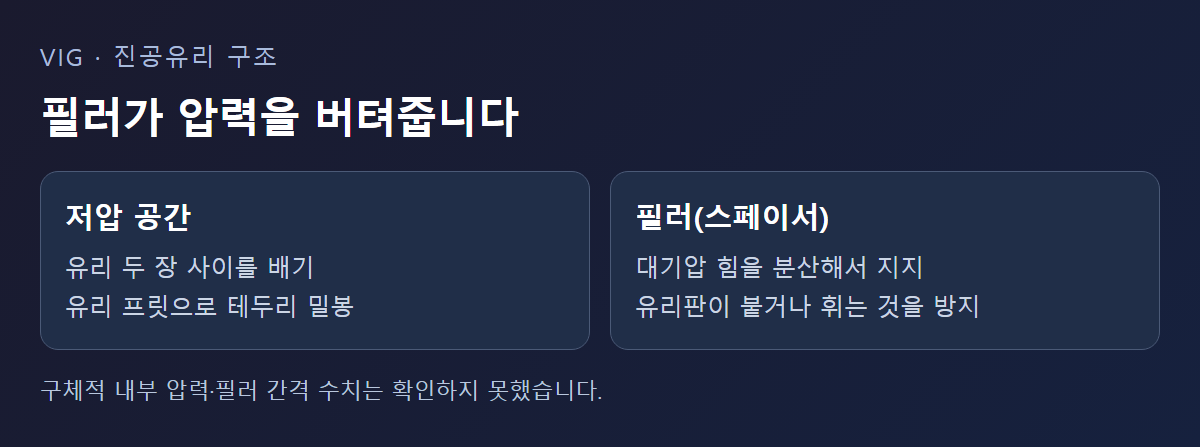
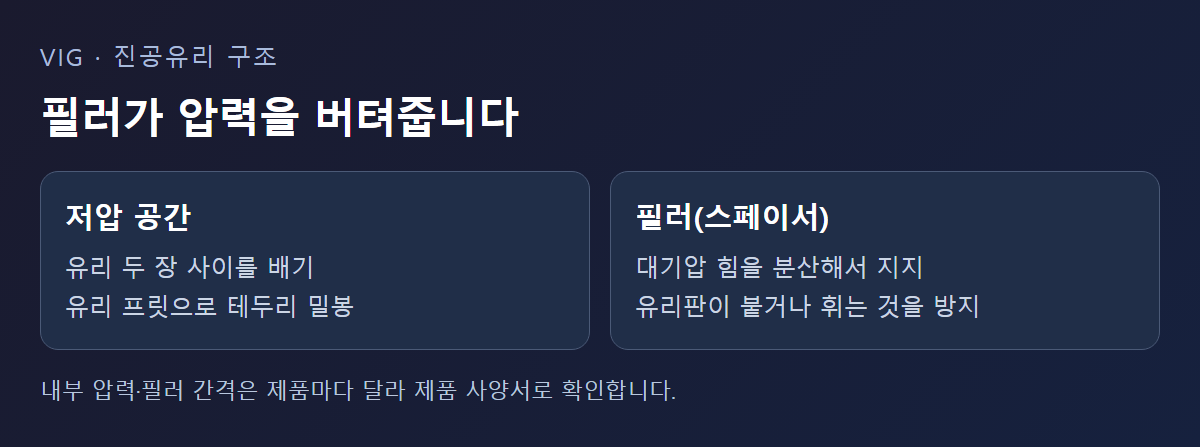
blog: 1019-진공유리-단열 발행(id=118) + W43 큐
- 원고의 "확인하지 못했다" 문장 7곳·내부 용어 정리, 진공펌프 연결 문단 추가
- 사진3 문구 재생성, 숏츠 목록 기록
- W43 예약 큐(목요일 1022 승인 대기), W42 큐 백업

Changed region(s): [[0.0308, 0.8438, 0.555, 0.9062]]

diff --git a/블로그/output/기술블로그/2026-10/1019-진공유리-단열/gen_images.py b/블로그/output/기술블로그/2026-10/1019-진공유리-단열/gen_images.py
@@ -65,7 +65,7 @@ VIG = html("""
 <div class="grid">
 <div class="box"><h3>저압 공간</h3><p>유리 두 장 사이를 배기<br>유리 프릿으로 테두리 밀봉</p></div>
 <div class="box"><h3>필러(스페이서)</h3><p>대기압 힘을 분산해서 지지<br>유리판이 붙거나 휘는 것을 방지</p></div>
-</div><div class="note">구체적 내부 압력·필러 간격 수치는 확인하지 못했습니다.</div></div>
+</div><div class="note">내부 압력·필러 간격은 제품마다 달라 제품 사양서로 확인합니다.</div></div>
 """)
 
 with sync_playwright() as p:

diff --git a/docs/astra_work_log.md b/docs/astra_work_log.md
@@ -1,5 +1,13 @@
 # Astra 작업 기록
 
+## 2026-10-19 — (클로드) 블로그 발행 — 1019-진공유리-단열 (id=118)
+
+- 09:11 자동 실행은 큐가 W42(10/12)라 "발행일 불일치"로 건너뜀 → W43 큐 작성(day1 1019, day2 `1022-진공오븐-진공도확인` approved=false), W42 큐는 `블로그/scheduler-backups/upload-queue-2026-W42.json`.
+- 발행 전 수정(9/23 원고라 10월 규칙 미반영): writer.md 출처 7항 위반 "이번 조사에서 확인하지 못했다" 7곳(본문 4·FAQ 2·사진3 문구) → "제품마다 달라 사양서로 확인" 표현, 내부 용어 "화이트리스트 자료로" 삭제, 펌프 연결 문단 "이 정도 진공은 무엇으로 만들까" 추가(VIP 10 mbar 미만 → 대기압 대비 99% 이상 배기, Edwards RV12 카탈로그 도달압력 2.0×10⁻³ mbar — lib/product-specs SPEC_DATA 값), 맺음말을 배기용 진공펌프 상담으로. naver.md 동일 반영+정리 목록 1줄. gen_images.py 재실행(사진3 문구), google.md=final.md.
+- 발행 전 보고: final 에너지부 2·Edwards 1, naver Edwards 2, 타사 0. check_quality 전체 통과, 사진 MD5 중복 0, 그림 4장 직접 확인.
+- 대표님 "ok" → approve_post.py 10:43 발행. https://www.smartechvacuum.com/blog/118 200·제목·사진 4장·금지 문구 0 확인. 숏츠 `baRLmkyT3_c` 10/19 12:00 공개 예약·CC 성공, X 대기글 PENDING.
+- 대표님 할 일: 네이버 게시(관리자 화면 id 118 복사, 마커·주석 삭제), X 대기글 승인. 다음: 목요일 1022 원고·사진 확인.
+
 ## 2026-10-19 — (클로드) 대행견적 이력 불러오기 후 수신처·담당자 ✎ 수정 + 거래처 자동 저장
 
 - 대표님 요청: 같은 품목 견적을 여러 담당자가 요청 → 이력 불러오기 뒤 담당자를 고쳐 바로 보내고 싶음, 거래처 자동 저장 여부 확인.

diff --git a/docs/memory/current-state.md b/docs/memory/current-state.md
@@ -19,6 +19,7 @@
 - 휴대폰 홈 길이(4번)도 수정: 휴대폰에서만 산업·주요 제품 카드 6개씩 + "더 보기" 버튼(PC 그대로).
 - 블로그 목록 사진(8번)도 추가. 대표님 승인(10/17)으로 next.config.ts에 images.remotePatterns(스마텍 Blob /blog/ 폴더만) 추가, 목록 사진을 next/image로 줄여 보냄. 🔴 그 주소를 바꾸면 app/blog/page.tsx BLOG_IMAGE_PREFIX도 같이.
 - 10/18 제품 상세 보강: 펌프 파트번호 화면에 모델 사양표(9015e2a 기준 수정 후 101개)+제품 화면 디자인 통일(880f3db). 홈 제품 창 720px·글자 키움, 견적서 미리보기 글자 1.1~1.2배(화면만, PDF 무변경)·맨 위 줄 정리, 히어로 카드 마우스 올림 회색(238c043).
+- 10/19 블로그 1019-진공유리-단열 id=118 발행(규칙 위반 문구 7곳 수정·펌프 연결 문단 추가), W43 큐 등록 — day2 1022 approved=false(대표님 원고 확인 대기). 대표님: 네이버 게시·X 승인.
 - 10/19 대행견적 이력 후 ✎ 수정·거래처 자동 저장(3fb1212) + 로컬 리뷰 반영(ea114ac, reviewed=ea114ac) — 관리자 화면 실제 사용 확인은 대표님 대기. 10/18 로컬 코드리뷰 17커밋 완료(반영 27ddff9). reviewed 가지 배포 꺼짐 확인(vercel ls -m githubCommitRef=reviewed 0건 — 10/8 미검증 항목 해결). 대표님 확인 필요: 사양표 연결된 "HC" 표기가 기본 모델과 사양 같은지.
 - 결정 대기: 메뉴에 없는 DB 분류 8개 정리, 사양표 미연결 펌프는 부품·키트·사양표 밖 모델과 기본 모델과 다른 변형(FX·iC/iR·IC/IE·85H, 대표님 확인 10/18 — 연결 금지)이라 그대로 둠. 다음에 하나씩 같이 보며 결정.
 
